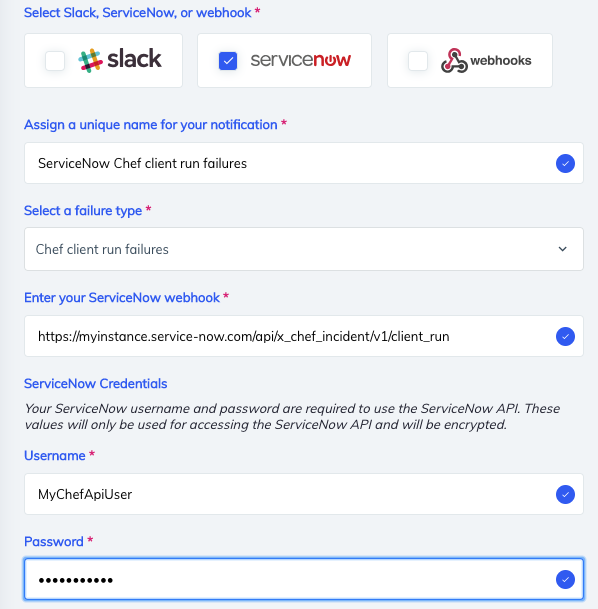
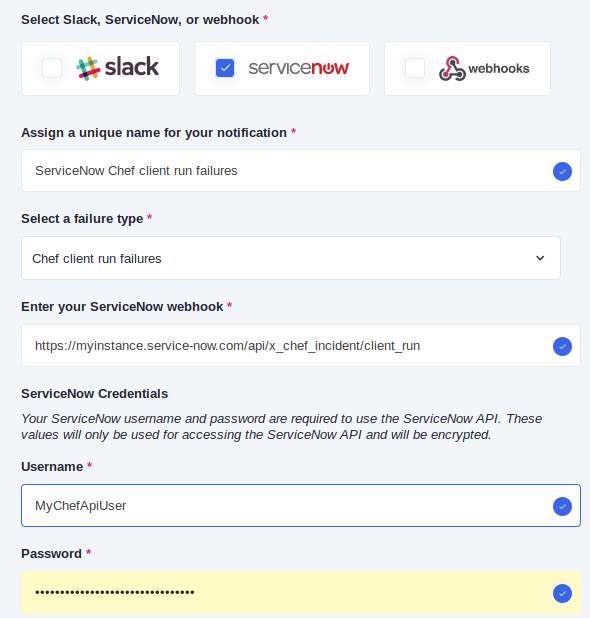
Update service now notification configuration guide and images

diff --git a/components/automate-chef-io/content/docs/servicenow-integration-install.md b/components/automate-chef-io/content/docs/servicenow-integration-install.md
@@ -179,8 +179,8 @@ The `x_chef_incident.logging.verbosity` property sets the logging level when log
 
 Chef Automate can be configured to send a notification to the REST APIs exposed by the application. There are two REST APIs:
 
-* Chef Client run API /api/x_chef_incident/v1/client_run
-* InSpec scan API /api/x_chef_incident/v1/inspec_scan
+* Chef Client run API /api/x_chef_incident/client_run
+* InSpec scan API /api/x_chef_incident/inspec_scan
 
 #### Chef Client Run API
 
